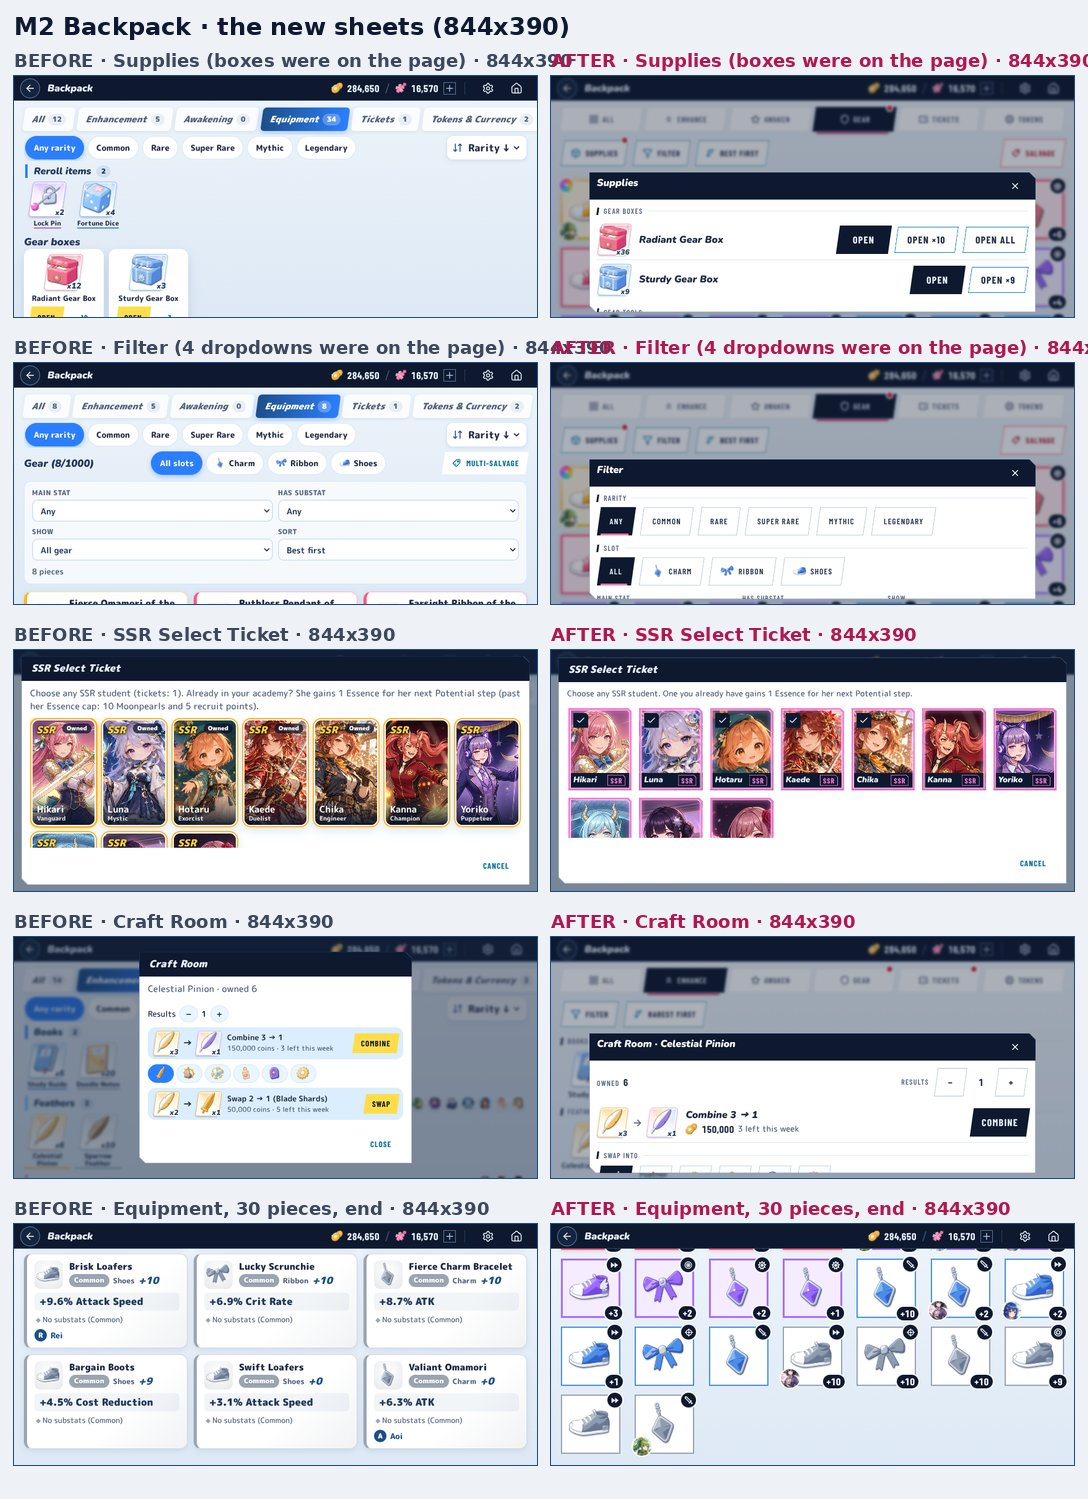
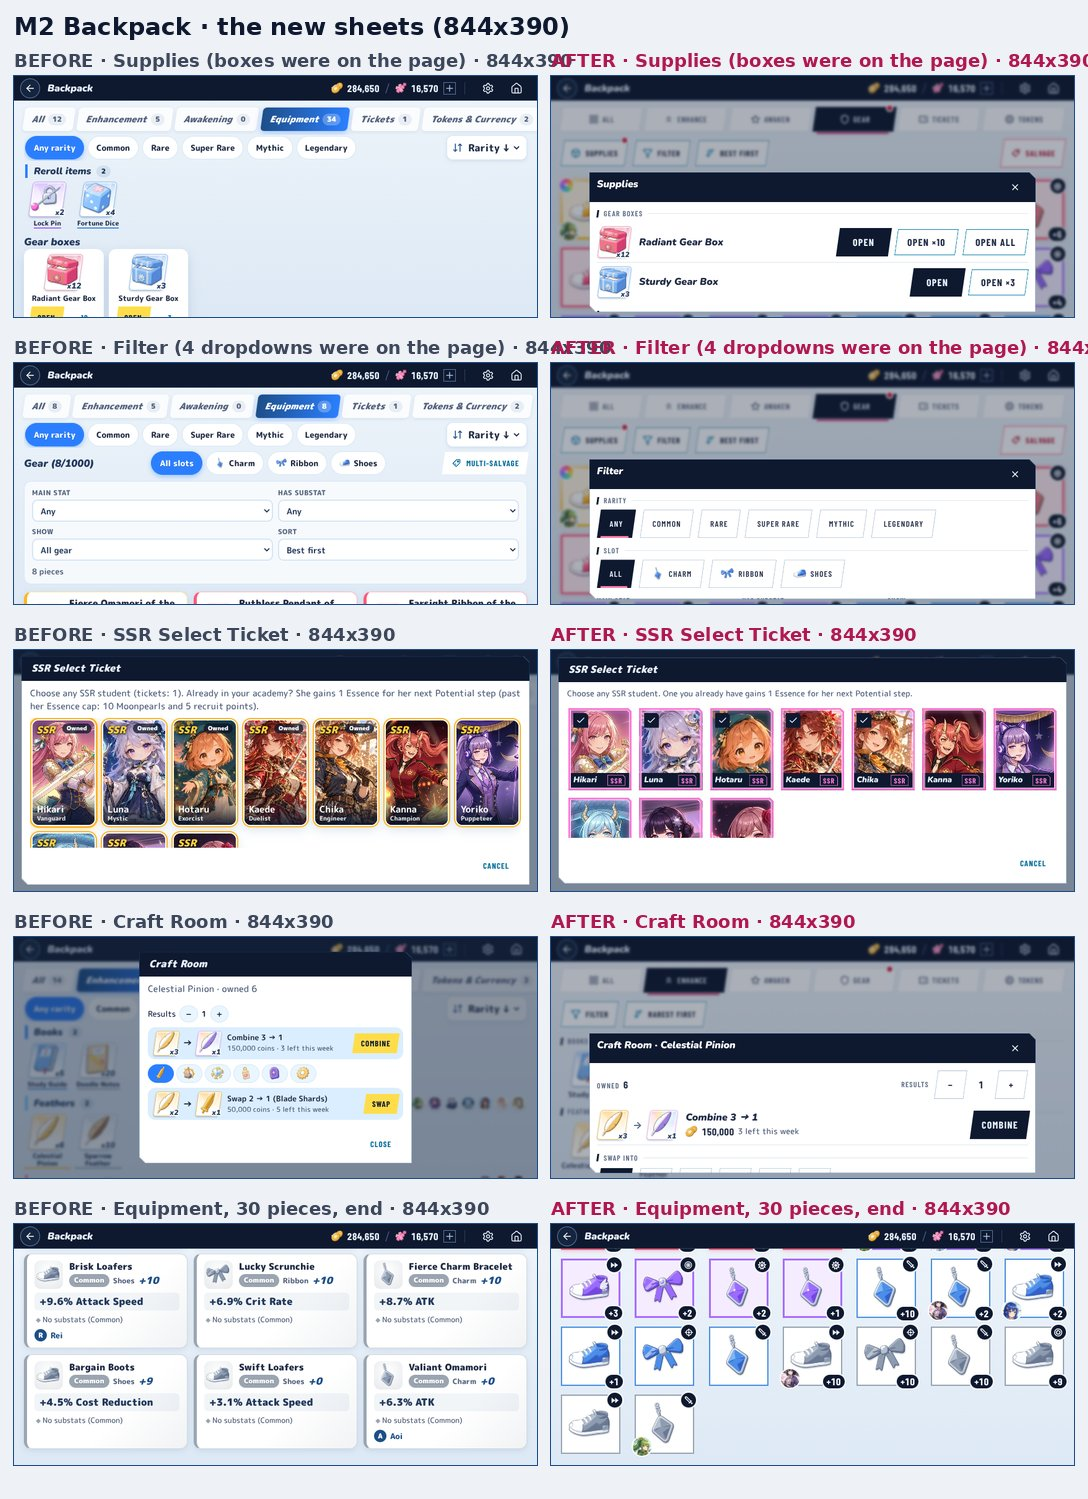
UI v2 menus M2: board refreshed with the final item sheet, Supplies and Craft Room
Claude-Session: https://claude.ai/code/session_011tKQCppbbNScafmCRT6ow9

diff --git a/docs/review/ui-v2-menus/m2/README.md b/docs/review/ui-v2-menus/m2/README.md
@@ -20,7 +20,8 @@ Boards (844x390, before on the left, after on the right):
 - **Salvage mode:** the rail steps aside; Filter · Select all · Done; a tile shows its main stat value; picks wear the
   kit's selected-tile marks; protected pieces go grey (a lock on locked ones); an ink salvage bar under the grid.
 - **Item sheet:** a kit bottom sheet: tile, rarity tag, owned, the text, who uses a material, "Where to get" rows with
-  secondary Go buttons (was four yellow Teleports), Use / Craft Room. At most one yellow (Use on a ticket).
+  secondary Go buttons (was four yellow Teleports; the five best places, the drop chance in the row's title), Use /
+  Craft Room. At most one yellow (Use on a ticket).
 - **SSR Select Ticket:** kit girl tiles (SSR glow, UR rainbow, a check chip on girls you have) in the kit dialog.
 - **Craft Room:** a kit sheet: one row per recipe (in → out, the price with the colour coin, one ink action),
   kit options for the quantity and the family.
@@ -31,7 +32,7 @@ Boards (844x390, before on the left, after on the right):
 | Rail | scrolls sideways on every tab | fits, no sideways scroll |
 | Smallest text | 10.08 px (tabs) / 11.2 px (Equipment) | 12 px |
 | Taps under 44 px | 12-14 (tabs), 22 (Equipment), 23 (salvage) | 0 (the smallest 45.5 px) |
-| Numbers on screen (top bar counted) | 7-9; item sheet 17 | 2 on every tab; item sheet 7 |
+| Numbers on screen (top bar counted) | 7-9; item sheet 17 | 2 on every tab; item sheet 5 (8 at 1280x720) |
 | Yellow fills | item sheet 4 | 0 on the item sheet (1 only on Use) |
 | Equipment, 30 pieces: whole tab | 128 numbers over 6.36 screens, no gear in the first screen, up to 6 numbers a card | 27 numbers over 1.95 screens, 14 whole tiles in the first screen, 1 number a tile |
 | At 1280x720 | 128 numbers, 2.3 screens | 27 numbers, the whole bag in one screen (10 a row) |
@@ -41,3 +42,6 @@ Boards (844x390, before on the left, after on the right):
   M2 only opens it.
 - The Use buttons under usable items (SSR Select Ticket, Seed, Needle, Armband) stay on the grid as ink buttons, so
   the old one-tap path remains; the item sheet has Use too.
+
+`node e2e/menus.mjs --milestone m2`: all 17 shots pass at 844x390, 1280x720 and 390x844 (the new shots: gear30,
+gear30-end, supplies, filter, sort, salvage-picks, sst, craft).
